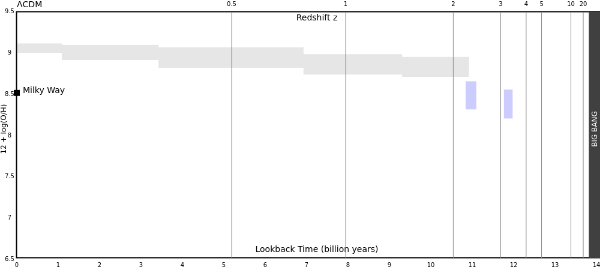
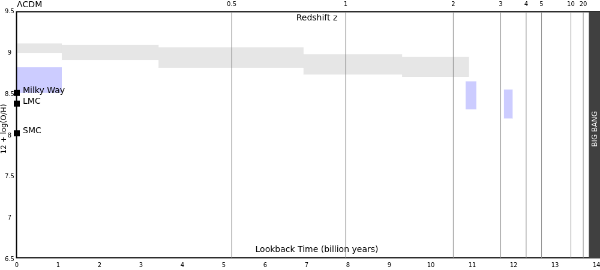
metal down

Changed region(s): [[0.03, 0.237, 0.12, 0.3852], [0.0, 0.4741, 0.06, 0.5037], [0.0, 0.3852, 0.03, 0.4148]]

diff --git a/other/metallicity.htm b/other/metallicity.htm
@@ -191,7 +191,7 @@
     var refs = {}
 
     var local = [
-        {"name": "solar",       "z": 0,  "x": 0,     "OH": 8.69,       "ref": "0"},
+        //{"name": "solar",       "z": 0,  "x": 0,     "OH": 8.69,       "ref": "0"},
         {"name": "Milky Way",   "z": 0,  "x": 0,     "OH": 8.50,       "ref": "0"},
         {"name": "LMC",         "z": 0,  "x": 0,     "OH": 8.37,       "ref": "0"},
         {"name": "SMC",         "z": 0,  "x": 0,     "OH": 8.01,       "ref": "0"}
@@ -258,7 +258,7 @@
                 }
             }
             else if (point.bins) {
-                zCap = point.bins[0].zstart + "&mdash;" + point.bins[point.bins.length - 1].zstart
+                zCap = point.bins[0].zstart + "&mdash;" + point.bins[point.bins.length - 1].zend
             }
             else {
                 zCap = point.z
